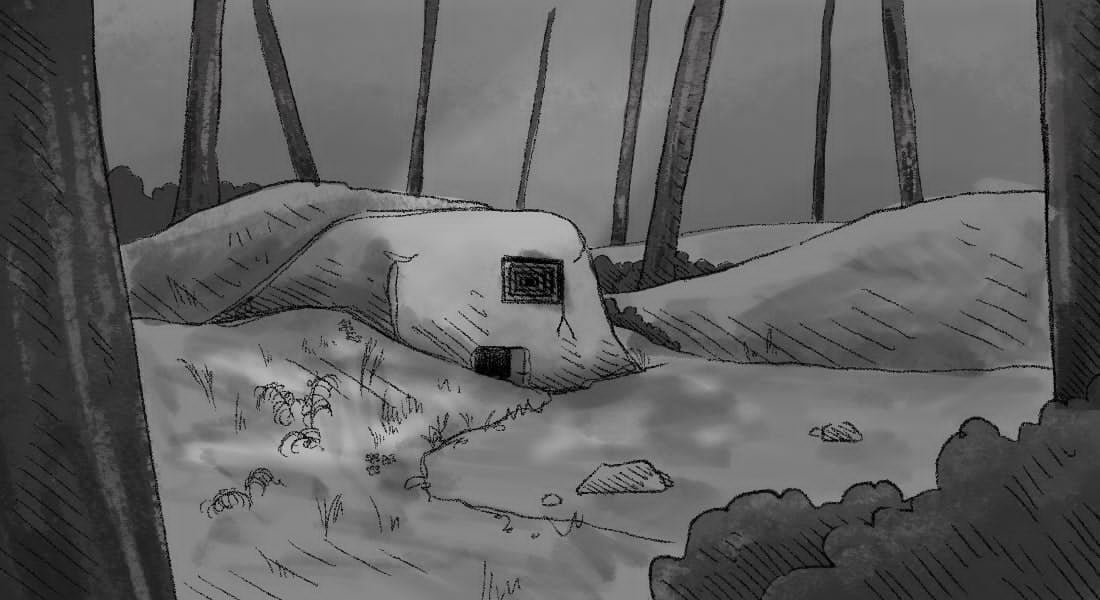
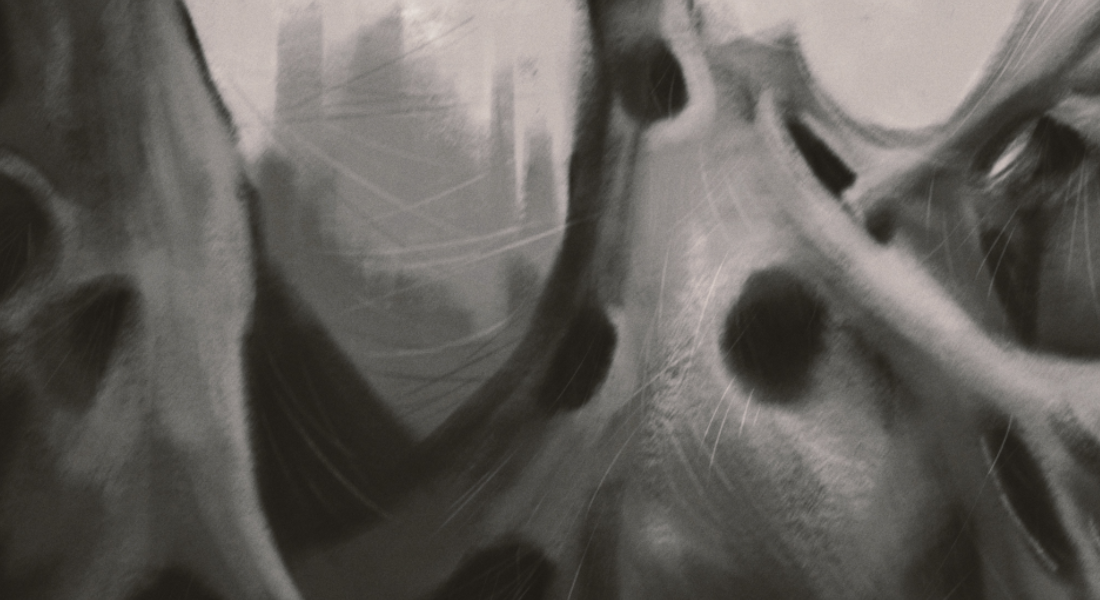
Add files via upload

diff --git a/sim/script.js b/sim/script.js
@@ -1,6 +1,6 @@
-        let test_mode = false;
+        let test_mode = true;
         const MODE = "NORMAL"; // "EASY" | "NORMAL" | "HARD"
-        const DEBUG = false;
+        const DEBUG = true;
         let debug_start = "START"
 
         let tooltipsInitialized = false;
@@ -10,6 +10,8 @@
         let back_to_game = "START";
         let keep_testing = false;
         let is_tutorial = false;
+        let is_help = false;
+        let narrative_phase = false;
         let prev_challenge = null;
         let pre_encounter_challenge_key = null;
         let queued_difficulty_target = null;
@@ -217,7 +219,7 @@
         let heal_attempts = 0;
         let is_elimination_check = false;
         let elimination_mode = "kill"; // "kill" | "sneak" — set by runElimination()
-
+        let transition_in_progress = false;
 
         function elimination(enemyKey) {
             inputs_frozen = true;
@@ -735,7 +737,7 @@
             const cards = document.querySelectorAll("#card-tray-container .card-container");
             const trayContainer = document.getElementById("card-tray-container");
 
-            if (!inputs_frozen && ((!isChoiceVisible && !narrative_phase) || is_heal_check || is_elimination_check)  && !isReadyVisible && !isProceedVisible && !isGeneralVisible){
+            if (!inputs_frozen && ((!isChoiceVisible && !narrative_phase) || is_heal_check || is_elimination_check || is_tutorial)  && !isReadyVisible && !isProceedVisible && !isGeneralVisible){
                 if (cards.length === 0) return;
 
                 // =========================================================================
@@ -754,7 +756,7 @@
 
                 if (e.key === "ArrowRight") {
                     e.preventDefault();
-                    
+
                     // KLÁVESNICA PREBERÁ KONTROLU: Rušíme myšovú dominanciu
                     if (trayContainer) trayContainer.classList.remove("mouse-active");
                     
@@ -1320,6 +1322,34 @@
             handleChallengeTransition(target)
         }
 
+        function help(){
+            if (is_collapse_check){
+                showGeneralPrompt("Teraz to nie je možné.")
+            }
+            const choicePrompt = document.getElementById("choice-prompt");
+            const isChoicePromptVisible = choicePrompt && window.getComputedStyle(choicePrompt).display !== "none";
+            hideMenu();
+            if (!isChoicePromptVisible){
+                showGeneralPrompt(
+                `POZOR! \n Prídeš o pokrok v súboji alebo výzve! \n Naozaj chceš zobraziť informácie o hre teraz?'`,
+                () => {
+                    runHelp()})
+            } else {
+                runHelp()
+            }
+        }
+        
+        function runHelp(){
+            resetStateFlags(); 
+            const proceedPrompt = document.getElementById("proceed-prompt");
+            if (proceedPrompt) {
+                proceedPrompt.style.display = "none";
+            };
+            target = "HELP";
+            back_to_game = current_challenge_key;
+            handleChallengeTransition(target)
+        }
+
         function handleChallengeTransition(caseTarget) {
             if (caseTarget == "WELCOME"){
                 const proceedBtn = document.getElementById('proceed-btn');
@@ -1332,16 +1362,18 @@
             const closeBtn = document.getElementById('close-btn');
             const proceedPrompt = document.getElementById('proceed-prompt');
 
-            if (caseTarget.includes("TUTORIAL")){
+            if (caseTarget.includes("TUTORIAL") || caseTarget.includes("DUMMY")){
                 closeBtn.innerText = "UKONČIŤ";
                 closeBtn.style.display = "block"
                 proceedPrompt.style.justifyContent = "space-between";
                 is_tutorial = true
+            }
 
-            } else {
-                proceedPrompt.style.justifyContent = "end"
-                closeBtn.style.display = "none";
-                is_tutorial = false
+            if (caseTarget.includes("HELP")){
+                closeBtn.innerText = "UKONČIŤ";
+                closeBtn.style.display = "block"
+                proceedPrompt.style.justifyContent = "space-between";
+                is_help = true
             }
 
             if (caseTarget == "BACK_TO_GAME"){
@@ -1349,6 +1381,10 @@
                 stress_reset = "stress-10";
                 if (back_to_game.includes("START")) final_target.push(stress_reset);
                 final_target.push(back_to_game);
+                is_tutorial = false;
+                is_help = false;
+                proceedPrompt.style.justifyContent = "end";
+                closeBtn.style.display = "none";
                 updateUI;
                 handleChallengeTransition(final_target);
 
@@ -1361,7 +1397,7 @@
                 mod = Math.min(0,Math.floor(Math.random() * 14 - 1))
                 HERO.stress = Math.max(0, HERO.stress + mod);
             }
-            if (!caseTarget || (!gameOn && !welcome)) return;
+            if (!caseTarget || (!gameOn && !welcome && !is_tutorial)) return;
             if (typeof is_collapse_check !== 'undefined' && is_collapse_check === true) {
                 return; // Early return to completely freeze challenge transitions
             }
@@ -4424,11 +4460,16 @@
 
         // Dedicated transition executor
         function executeProceedTransition() {
+            if (transition_in_progress) {
+                if (test_mode) log("EXEC_TRANSITION: already in progress, ignoring re-entrant call", "danger-msg");
+                return;
+            }
             if(test_mode){
                 if (is_collapse_check) {
                     return;
                 }
             }
+
             const enemyCardContainer = document.getElementById("enemy-card-container");
             const playerCardDisplay = document.getElementById("player-card-display");
             const prompt = document.getElementById("proceed-prompt");
@@ -4451,27 +4492,30 @@
             if (is_conflict){delay = 500} else {delay=200}
             if (proceed_target) {
                 if (test_mode) log("EXEC_TRANSITION: proceed_target exists, executing after " + delay + "ms", "system-msg");
+                transition_in_progress = true;
+                const targetToRun = proceed_target;
+                proceed_target = null;
                 document.querySelectorAll('.dice-animation-pool').forEach(pool => pool.remove());
-                // Trigger visual slide outs
                 if (enemyCardContainer) enemyCardContainer.classList.remove("show");
                 if (playerCardDisplay) playerCardDisplay.classList.remove("show");
 
-// Delay the DOM destruction and actual target execution by 500ms
                 setTimeout(() => {
                     if (enemyCardContainer) enemyCardContainer.innerHTML = "";
                     if (playerCardDisplay) playerCardDisplay.innerHTML = "";
                     if (prompt) prompt.style.display = "none";
-                    if (typeof proceed_target === 'function') {
+                    transition_in_progress = false;
+                    if (typeof targetToRun === 'function') {
                         if (test_mode) log("EXEC_TRANSITION: calling proceed_target function", "system-msg");
-                        proceed_target();
+                        targetToRun();
                     } else {
-                        if (test_mode) log("EXEC_TRANSITION: calling handleChallengeTransition(" + proceed_target + ")", "system-msg");
-                        handleChallengeTransition(proceed_target);
+                        if (test_mode) log("EXEC_TRANSITION: calling handleChallengeTransition(" + targetToRun + ")", "system-msg");
+                        handleChallengeTransition(targetToRun);
                     }
-                }, delay); // Matches your CSS 0.5s transition
+                }, delay);
             } else {
                 if (test_mode) log("EXEC_TRANSITION: proceed_target is NOT set, returning", "danger-msg");
             }
+
         }
 
 
@@ -4920,10 +4964,6 @@
                 updateUI();
 
                 onTerminalFinishedCallback = () => {
-                    inputs_frozen = false;
-                    const scrollRow = document.querySelector('.card-scroll-row');
-                    if (scrollRow) scrollRow.classList.add('enable-interaction');
-
                     displayEnemyCard(enemy_action[0], enemy_action[1]);
                     runGameloopCycle();
                 };
@@ -6417,7 +6457,7 @@
                 adrenalineSelectEl.value = targetAdrenalineVal;
             }
 
-            log(`⚡ Adrenalín použitý! Stres sa ti zvyšuje na ${HERO.stress} a získavaš +${targetAdrenalineVal} k ďalšiemu hodu.`, "success-msg");
+            log(`Adrenalín použitý! Stres sa ti zvyšuje na ${HERO.stress} a získavaš +${targetAdrenalineVal} k ďalšiemu hodu.`, "success-msg");
 
             // 4. Prekreslenie UI (posun červeného 'S' indikátora)
             updateUI();

diff --git a/sim/index.html b/sim/index.html
@@ -178,7 +178,7 @@
             <div  style="display: flex; flex-direction: column; gap: 15px; justify-content: center; width: 100%; align-items: center;">
                 <button onclick="showSettings()" class="adrenaline-select" style="width: 120px; height: 40px; font-weight: bold; color: #ffffff; background: var(--hybrid-green); cursor: pointer;">
                     NASTAVENIA</button>
-                <button id="launch-tutorial-btn" class="adrenaline-select" style="width: 120px; height: 40px; font-weight: bold; color: #ffffff; background: var(--hybrid-green); cursor: pointer;">
+                <button onclick="help('HELP')" id="launch-tutorial-btn" class="adrenaline-select" style="width: 120px; height: 40px; font-weight: bold; color: #ffffff; background: var(--hybrid-green); cursor: pointer;">
                     POMOC</button>
                 <button onclick="about()" id="about-btn" class="adrenaline-select" style="width: 120px; height: 40px; font-weight: bold; color: #ffffff; background: var(--hybrid-green); cursor: pointer;">
                     O HYBRIDE</button>

diff --git a/sim/style.css b/sim/style.css
@@ -333,7 +333,7 @@
             padding: 10px;
             display: none; 
             align-items: center;
-            justify-content: space-between;
+            justify-content: end;
             gap: 5px;
             z-index: 200;
             width: 100%;